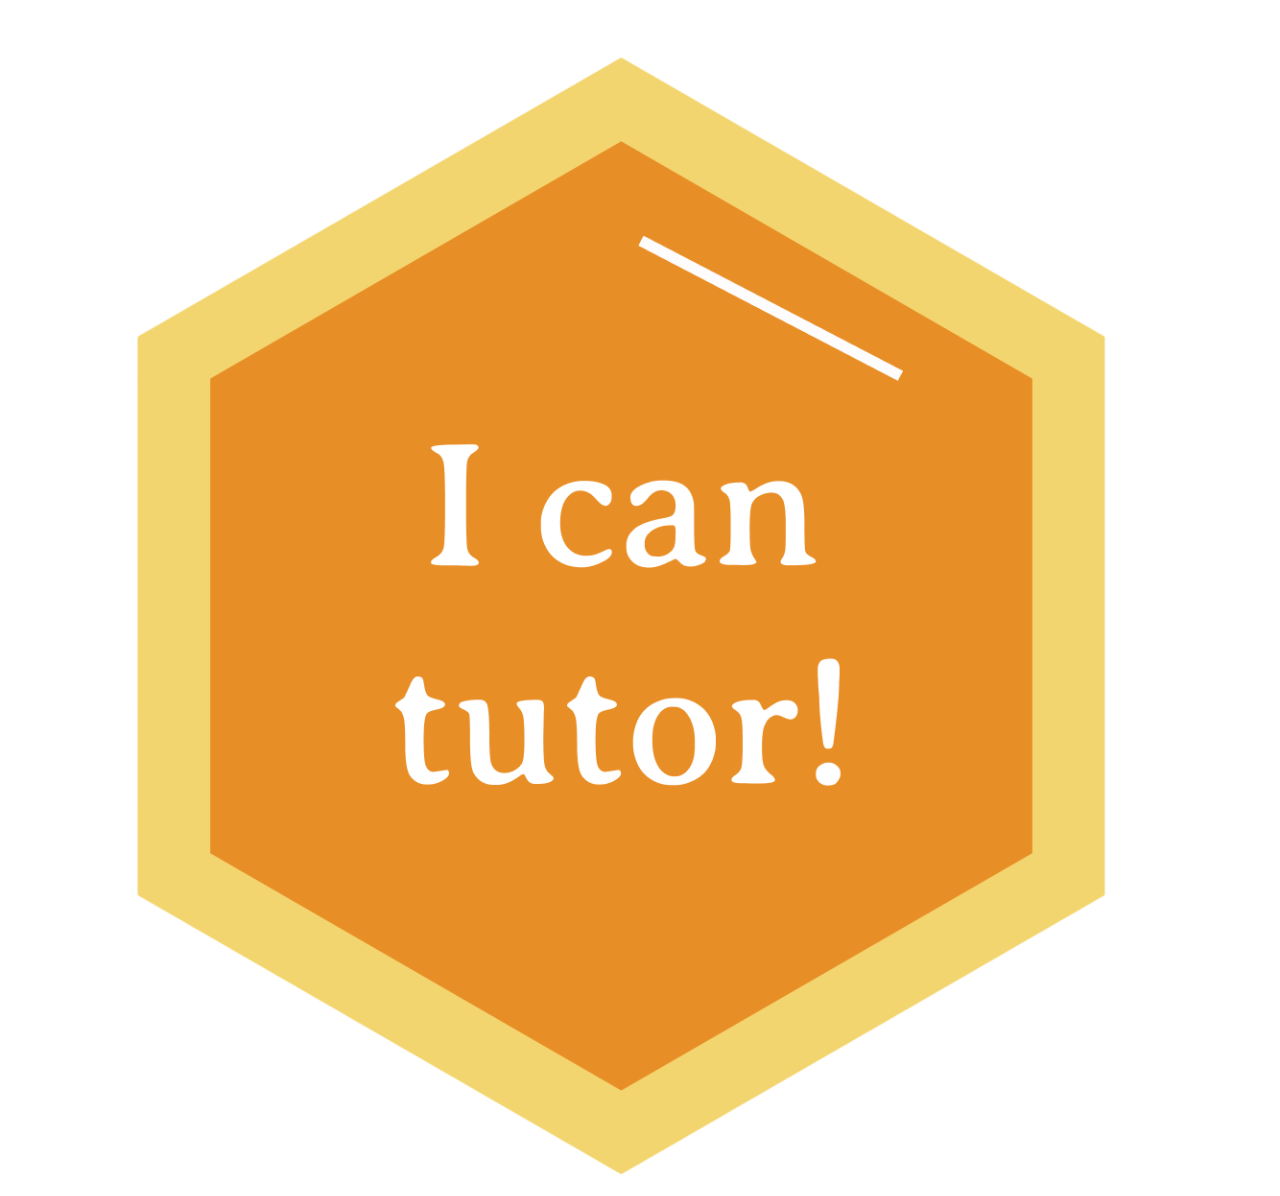
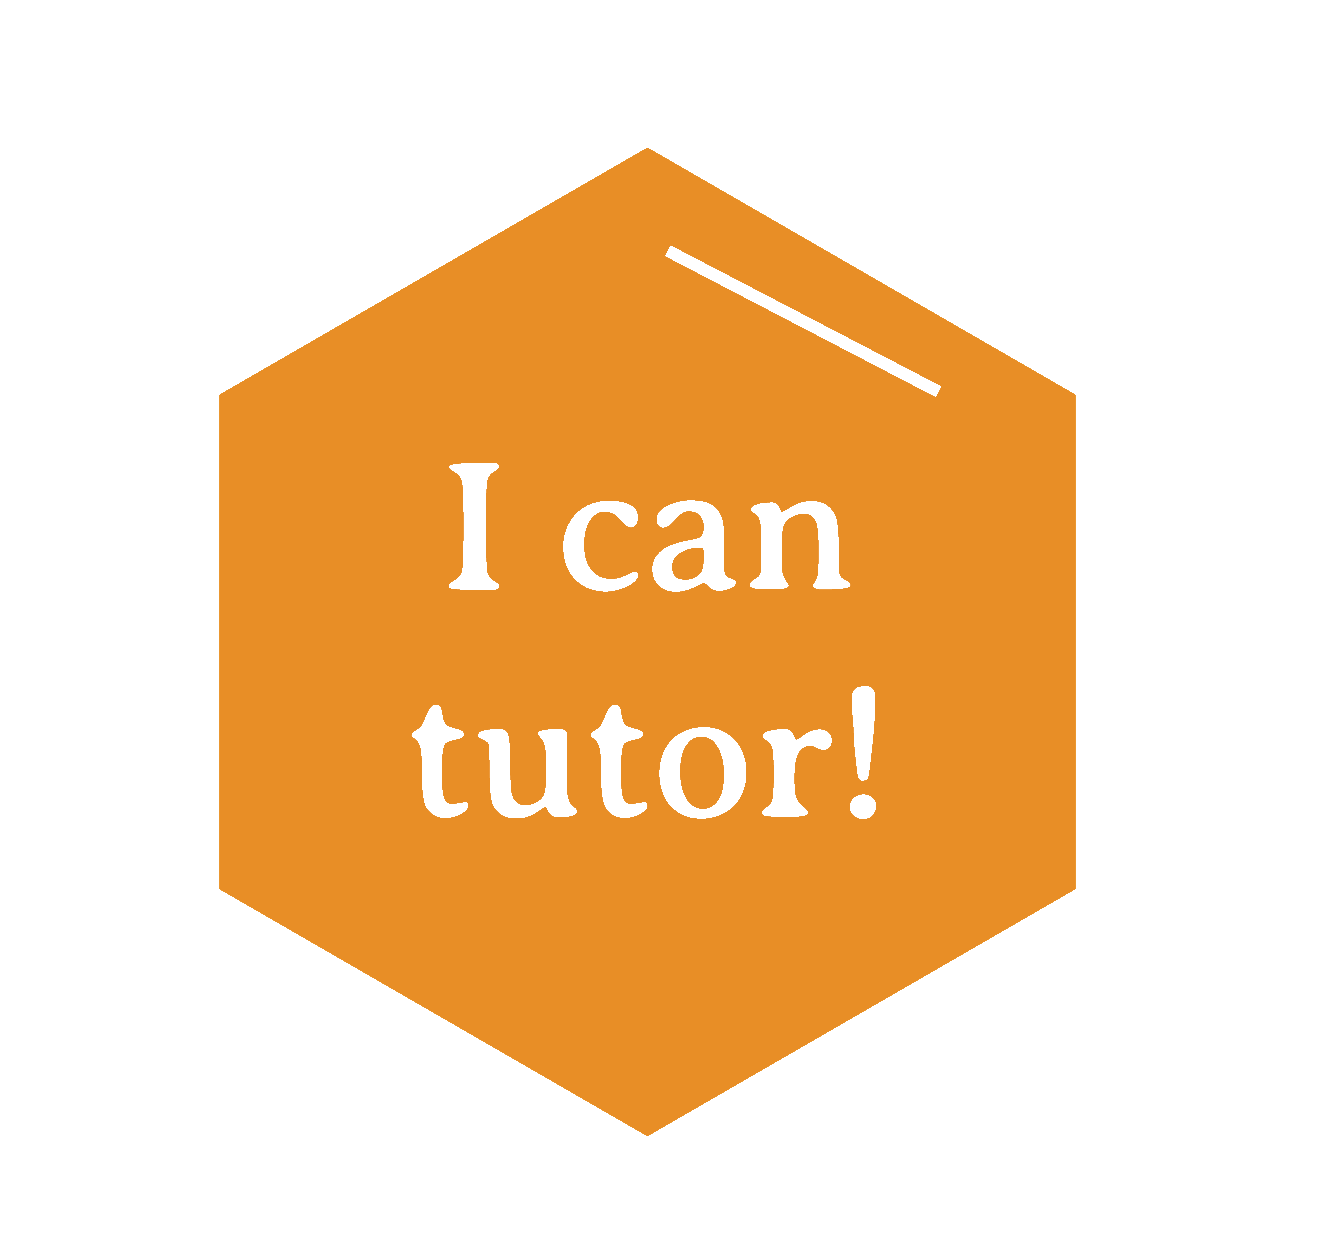
ergoh

Changed region(s): [[0.0938, 0.0309, 0.875, 0.99]]

diff --git a/src/components/Selection.css b/src/components/Selection.css
@@ -26,27 +26,32 @@
   .hex-container {
     display: flex;
     justify-content: center;
-    gap: 50px;
+    gap: 40px; /* Adjust spacing */
+    flex-wrap: wrap; /* Ensures hexagons stay aligned if screen is small */
     margin-top: 40px;
   }
   
   /* Hexagon Shape */
   .hex {
-    width: 150px;
-    height: 170px;
+    width: 300px;
+    height: 300px;  /* Reduce height slightly to maintain proportions */
     background-color: #E98E27;
     clip-path: polygon(50% 0%, 100% 25%, 100% 75%, 50% 100%, 0% 75%, 0% 25%);
+    
     display: flex;
     align-items: center;
     justify-content: center;
     text-align: center;
-    font-size: 20px;
+    
+    font-size: 18px;
     font-weight: bold;
     color: white;
-    padding: 20px;
+    padding: 10px; /* Reduce padding to prevent distortion */
+    
     cursor: pointer;
     transition: 0.3s;
   }
+  
   
   /* Hexagon Hover Effect */
   .hex:hover {
@@ -114,3 +119,10 @@
     width: 100px; /* Set the width of the image */
     height: auto; /* Maintain aspect ratio */
   }
+
+
+  .image-button img {
+    width: 100px; /* Adjust size */
+    height: auto;
+    display: block;
+}

diff --git a/src/components/Selection.js b/src/components/Selection.js
@@ -5,12 +5,18 @@ import "./Selection.css";
 
 function Selection() {
   return (
+
     <div>
      
       <h1 className="title">HONEY TUTORING</h1>
 
       <div className="container1">
-        <button4>I can tutor!</button4>
+
+
+      
+
+   
+
       <button4>I need a tutor!</button4>
    
       
